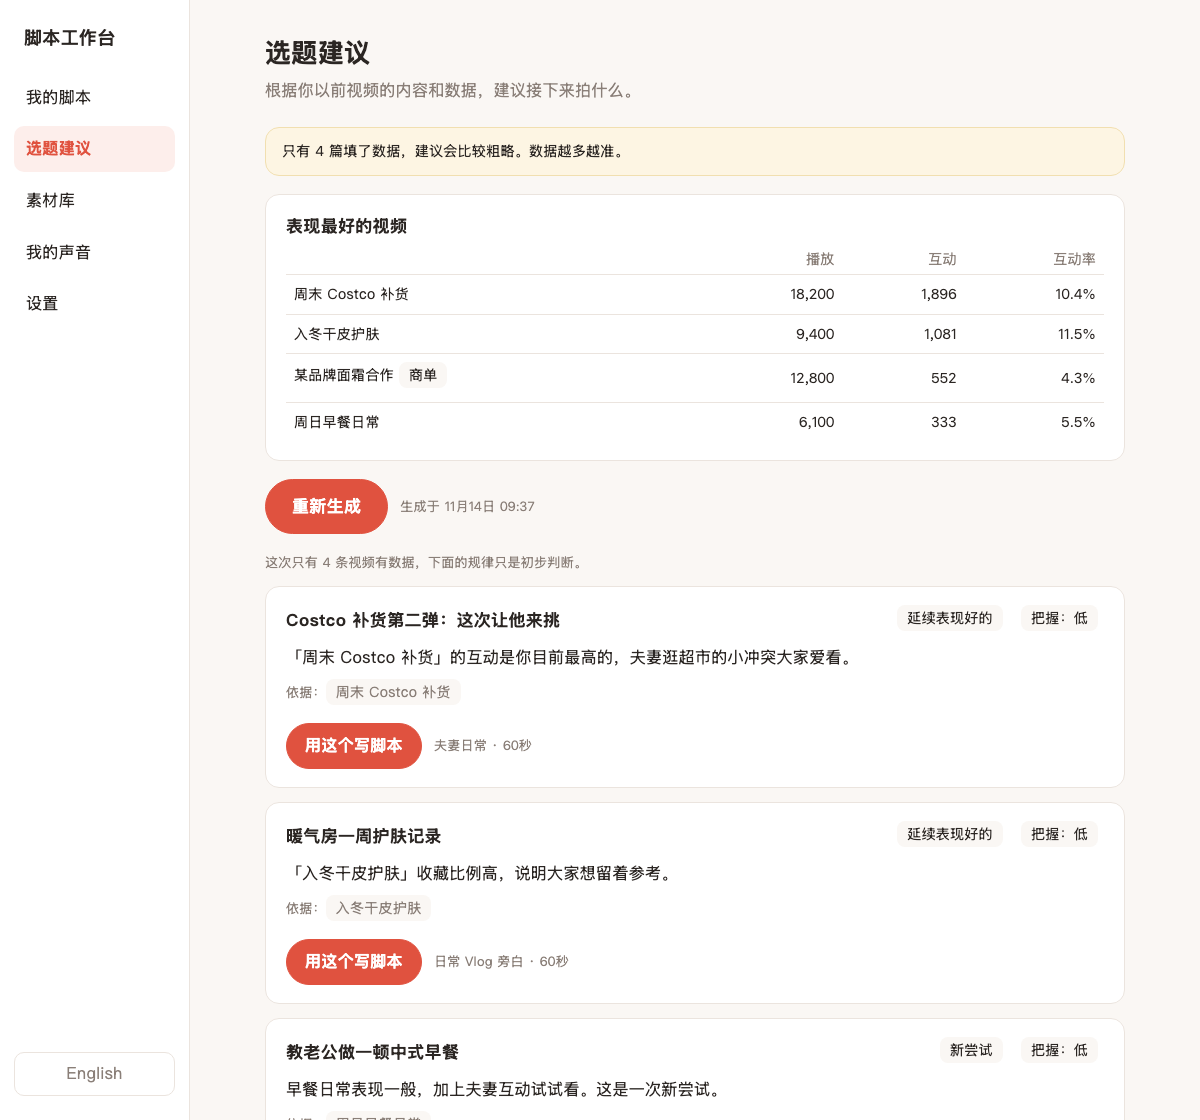
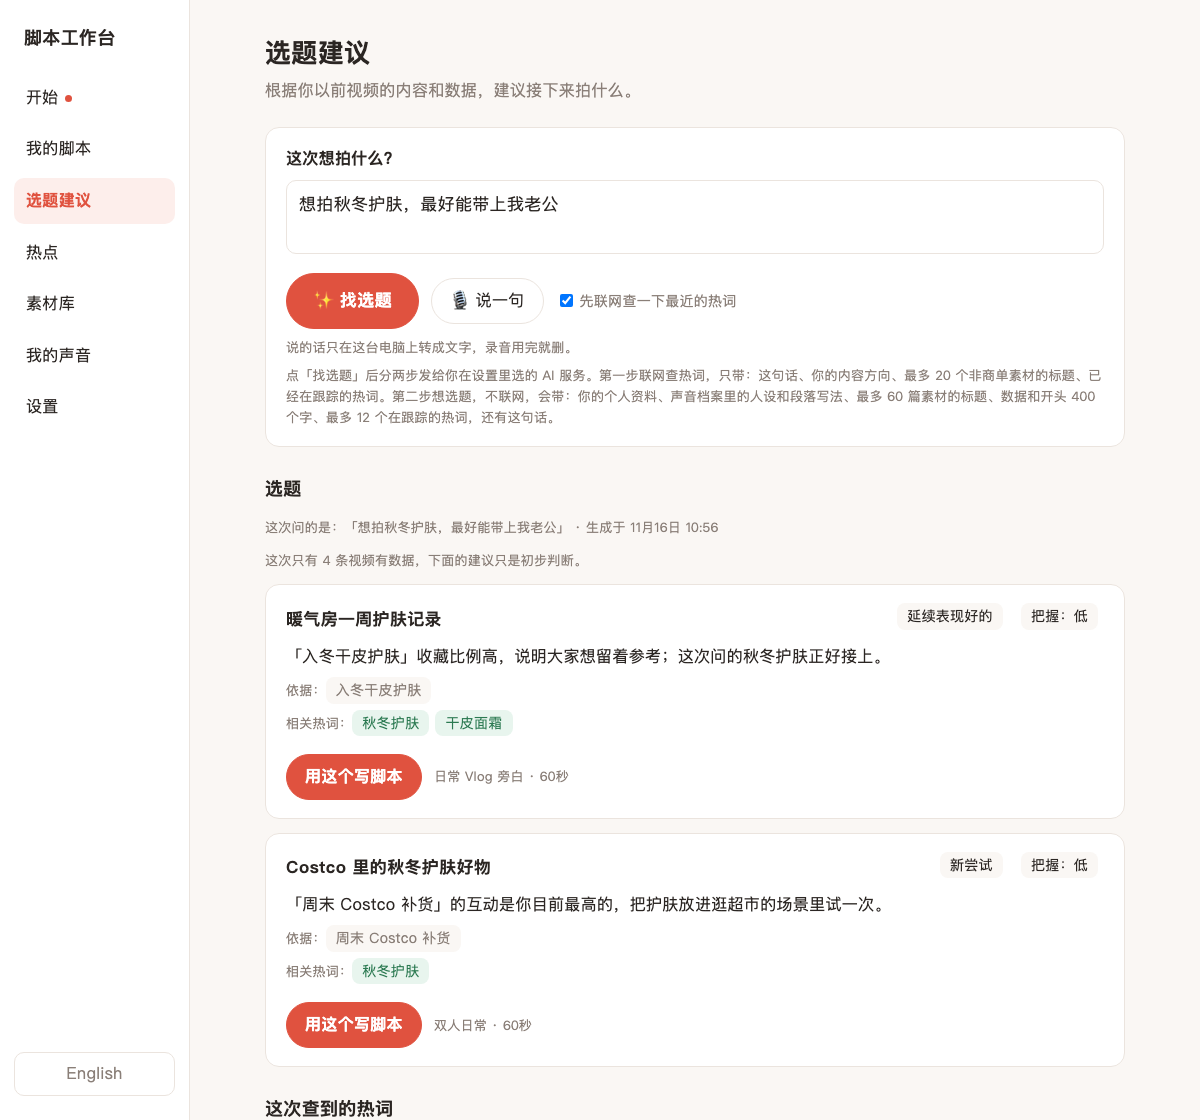
Describe one line to ideas in both READMEs and the changelog draft
Status tables, first-ten-minutes steps, features, privacy and known limits, in
both languages. The privacy section no longer says the studio makes no web
request for trend keywords: with a Gemini or OpenAI key it now asks that
service to search. The v0.2.0-beta changelog draft gains the feature, the
change in behaviour, the fix, and what was and was not verified. The 选题建议
screenshot is retaken with stand-in data, because the page looks different
now.

diff --git a/README.md b/README.md
@@ -23,6 +23,7 @@ This is an early version. Read this before relying on it.
 | Guided setup, voice review, lessons from edits | Covered by automated tests. Their AI parts were tested against stand-in replies, like the row above. |
 | On-device transcription | A Mac with an Apple chip and macOS 14 or newer only. Set up and used on one Mac so far. Transcripts contain mistakes, especially in sentence-final particles, and wait for the creator's confirmation before their wording is learned from. |
 | Trend keywords | Pasting, ranking and keyword checks work, are covered by automated tests and were exercised in headless Chrome. The ranking weights are judgement calls that have **not** been tuned against real results. Lookups by a web-searching AI have only been tested with stand-in replies. |
+| One line to ideas | New. Typing or saying one line on 选题建议 looks current keywords up and then suggests ideas. Covered by automated tests, and the pages were run with the server in headless Chrome against stand-in AI replies. The web lookup through a Gemini or OpenAI key is written from those services' documentation and has **not** been run against either. Speaking was tested with the Whisper on one Mac and a sound stream in place of the microphone; a real microphone has **not** been tried. |
 | 剪映 / CapCut | Exports standard files to import. Importing them has **not** been verified inside 剪映 or CapCut by the maintainers. It does not write 剪映 project drafts. |
 | MCP server | Tested at protocol level (JSON-RPC over stdio). **Not** yet verified with ChatGPT, Codex or Claude Desktop. |
 | Platforms | Developed on macOS with Python 3.9. Nobody has used it on Windows or Linux yet. The automated tests run on all three systems on every push; the repository's Actions page shows whether they pass there. |
@@ -52,7 +53,7 @@ The interface starts in Chinese. Use the **English** button at the bottom of the
 4. Step 4: draft a first script. Under it the app lists which material the draft was based on.
 5. **素材库 / Library**: add views, likes, collects and comments where you have them, and tick 商单 for sponsored items.
 6. **热点 / Trends** (optional): paste keywords you see trending on Xiaohongshu to have them ranked against her own results.
-7. **选题建议 / Ideas**: ask for topic suggestions, pick one, and draft it.
+7. **选题建议 / Ideas**: type one line about what you want to film, or say it, or leave the box empty, and click 找选题. With a Gemini or OpenAI key the app first looks up current keywords on the web and then suggests ideas. Pick an idea or a keyword and draft it.
 8. **我的脚本 / Scripts**: edit the draft, read it with the teleprompter, and export the 剪映 kit.
 
 Until a voice profile has been accepted the app uses a bundled *example* voice profile for a fictional creator, and says so on screen.
@@ -137,6 +138,7 @@ Then ask in chat, for example: *"Use Learn My Voice to write a 60-second script 
 - **Drafting**: every draft is anchored on her own best-performing scripts as examples. A script can have up to 8 target keywords; her past scripts on those topics are then used as the examples first, and the editor shows whether each keyword ended up in the spoken lines or in the drafted title options, caption or hashtags. The title options, cover text, caption and hashtags that the AI drafts with a script are shown under it, to read and copy.
 - **Lessons from edits**: each AI draft lists which of the creator's scripts its prompt contained. The app shows what the creator then changed in the draft, counting wording only, and a change can be remembered. Remembered changes go into later draft prompts, and a phrase removed in more than one script is offered for the never-say list.
 - **Topic ideas**: ranks her past videos by interactions and suggests what to film next. Each idea must cite her own videos; citations that do not match a real title are removed. Tracked trend keywords are passed in as a second signal, and an idea can only name keywords that are actually tracked.
+- **One line to ideas**: on 选题建议, and on the home page once an AI is connected, type one line about what you want to film, or say it on a Mac that has the on-device transcriber. With a Gemini or OpenAI key the app first asks that service to search the web for current keywords in the creator's niches, keeps the ones that come with a source link, marked as unverified, and then asks for ideas that answer the line. With a local model or in copy & paste mode the same two steps are offered by hand. The page shows the ideas, the keywords found with their sources, and the pages the lookup cited. When one step fails the other's result is still shown, and ideas saved earlier stay.
 - **Trend keywords** (热点): paste keywords you see trending, with an optional heat number, and the studio ranks them by how hot and recent they are and by how her own videos on that topic performed. You choose how much each side counts. The ranking is arithmetic, not AI. Keywords that clash with her voice profile are marked and left out of suggestions. A web-searching chat AI can also look keywords up through the copy & paste dialog or MCP; those need a source link and are labelled as unverified.
 - **Teleprompter**: full screen, adjustable speed and size.
 - **Exports**: 剪映 / CapCut kit, subtitle `.srt`, voiceover text, shot list, on-screen text list.
@@ -172,7 +174,8 @@ generator reports limits for drafts produced on macOS, so this needs testing aga
 - A video added for transcription is copied into `data/uploads/` and transcribed on this Mac. The copy is deleted when the transcription ends, whatever the outcome; only the text and timing are kept. The programs that transcribe are started under macOS rules that deny them the network, and where those rules cannot be set up nothing is transcribed.
 - Setting up transcription downloads software from pypi.org and one speech model from huggingface.co, about 2 GB in all, into `local_tools/whisper/` inside the project folder. Nothing about the creator is sent.
 - Views, likes, collects and comments are typed in by hand. Nothing is fetched from any platform.
-- Trend keywords are pasted in by hand, or returned by a web-searching AI that you ask yourself. The studio makes no web requests for them. A trend lookup prompt contains the niches from the creator profile, the titles of up to 20 non-sponsored videos, the area you typed and the keywords already tracked. It does not contain script text, the creator's name or anything from the voice profile.
+- Trend keywords are pasted in by hand, or looked up by a web-searching AI. That is either one you ask yourself by copy and paste, or, when 选题建议 is used with a Gemini or OpenAI key and the lookup is ticked, that service's own web search. The studio itself opens no web page and fetches nothing from any platform. A trend lookup prompt contains the niches from the creator profile, the titles of up to 20 non-sponsored videos, the line you typed or said and the keywords already tracked. It does not contain script text, the creator's name or anything from the voice profile. The ideas prompt that follows is a separate request, sent without web search.
+- A spoken line is recorded in the browser, sent to this app on `127.0.0.1`, turned into text by the on-device transcriber and deleted. The browser's own speech recognition is not used. The text appears in the box first; nothing goes to an AI until 找选题 is clicked.
 
 ## Project layout
 
@@ -212,6 +215,8 @@ python3 -m studio.guardrails tests/fixtures/worked_example_script.json --dna sch
 - With only a few videos that have numbers, topic suggestions are weak. The app says so.
 - Trend scores are a guide, not a measurement. The weights and the 14-day half-life are judgement calls that have not been tuned against real outcomes, and heat numbers are whatever was typed in. Matching a keyword to her past videos is by shared characters and words, so it can miss a video that covers the topic in other words.
 - Keywords found by an AI are only as good as the page it cites. The studio requires a web link and drops entries whose stated source date is more than 30 days old, but it never opens the page, so it cannot confirm the page says what the AI claims. They stay marked as unverified unless you paste the same keyword in yourself.
+- The web lookup built into 选题建议 is written from Google's and OpenAI's documentation as it read on 16 November 2026 and has not been run against either service. For Gemini it uses the Interactions API, which is not the API the rest of the app calls. OpenAI asks that pages a web search cites are shown as clickable links, which the page does. Google sends an HTML snippet of search suggestions that is meant to be shown, with requirements in its terms of service; the app does not show it, and those terms have not been read.
+- Speaking a line needs the on-device transcriber, so it works only where video transcription does. Whisper mishears: in a test with a synthetic Chinese voice it wrote 秋冬 as 邱中. The text is shown in the box to be corrected before anything is sent.
 - Sponsored-brief handling and a second-pass critic are designed in `prompts/` and `SYSTEM_DESIGN.md` but not built.
 
 ## License

diff --git a/README.zh-CN.md b/README.zh-CN.md
@@ -22,6 +22,7 @@
 | 引导设置、声音档案确认、从改稿中学习 | 有自动化测试。其中用到 AI 的部分和上一行一样，只用模拟回复测试过。 |
 | 本机视频转写 | 只支持 Apple 芯片的 Mac，macOS 14 或更新。目前只在一台 Mac 上安装并用过。机器转写会有错字，尤其是句尾语气词，所以转写的文字要你确认以后，才会用来学说话习惯。 |
 | 热点关键词 | 粘贴、排序和关键词检查可以用，有自动化测试，也在无界面 Chrome 里跑过。排序的权重是凭经验定的，**还没有**用真实结果校准过。让能联网的 AI 查热词这一步，只用模拟回复测试过。 |
+| 一句话找选题 | 新功能。在「选题建议」里写一句或说一句，先查最近的热词，再给选题。有自动化测试，页面和服务也一起在无界面 Chrome 里跑过，用的是模拟的 AI 回复。用 Gemini 或 OpenAI 密钥联网查热词这一步，是照着这两家的文档写的，**还没有**真的连过任何一家。说话输入是用一台 Mac 上的 Whisper 测的，用一段声音代替了麦克风；真实的麦克风**还没有**试过。 |
 | 剪映 / CapCut | 导出的是可以导入的标准文件。维护者**还没有**在剪映或 CapCut 里实际验证过导入。目前不会直接生成剪映草稿。 |
 | MCP 服务 | 在协议层面测试过（标准输入输出上的 JSON-RPC）。**还没有**和 ChatGPT、Codex 或 Claude Desktop 实际连通验证。 |
 | 系统 | 在 macOS、Python 3.9 上开发。还没有人在 Windows 或 Linux 上实际用过。每次推送都会在三个系统上跑自动化测试，在那两个系统上能不能通过，见仓库的 Actions 页面。 |
@@ -51,7 +52,7 @@ python3 -m studio.server
 4. 第四步：写第一篇脚本。脚本下面会列出这篇初稿参照了你的哪些素材。
 5. **素材库**：有数据的话填上播放、点赞、收藏、评论；商单请勾选「商单」。
 6. **热点**（可选）：把你在小红书看到的热词贴进来，让它结合你自己的数据排个先后。
-7. **选题建议**：让它帮你想选题，挑一个，直接写初稿。
+7. **选题建议**：写一句这次想拍什么，或者直接说一句，也可以什么都不填，然后点「找选题」。用的是 Gemini 或 OpenAI 密钥的话，工作台会先联网查最近的热词，再给选题。挑一个选题或热词，直接写初稿。
 8. **我的脚本**：修改初稿，用提词器念，再导出剪映素材包。
 
 在采用你自己的声音档案之前，工作台用的是自带的*示例*声音档案（一个虚构的博主），页面上会有提示。
@@ -133,6 +134,7 @@ tunnel-client run --profile learn-my-voice
 - **写初稿**：每次都会把你自己表现最好的脚本当作范例一起给 AI。每篇脚本可以设最多 8 个目标关键词：设了以后，会优先拿你讲过相关话题的脚本当范例，编辑页也会显示每个关键词有没有出现在口播里，或者 AI 写的备选标题、正文、话题里。AI 写初稿时一起写的备选标题、封面文字、正文和话题会显示在脚本下面，可以看、可以复制。
 - **从改稿中学习**：每篇 AI 初稿下面都会列出它的提示词里放了你的哪几篇素材。你改过以后，工作台会列出你改了哪些字（只算真正改了字的地方），你可以让它记住某个改法。记住的改法会放进以后每次写稿的提示词里；在不止一篇脚本里删掉过的说法，会问你要不要加入「坚决不说的话」。
 - **选题建议**：按互动量给以前的视频排名，建议接下来拍什么。每条建议必须引用你自己的视频；引用的标题如果对不上，会被去掉。正在跟踪的热词会作为第二个参考一起给 AI，建议里只能提到确实在跟踪的热词。
+- **一句话找选题**：在「选题建议」页（连接 AI 以后，首页也有），写一句这次想拍什么；装了本机转写的 Mac 上也可以直接说。用的是 Gemini 或 OpenAI 密钥的话，工作台会先让这个服务联网查你内容方向里最近的热词，只留下带来源链接的，标成「未核实」，再让它按你这句话给选题。用本地模型或复制粘贴模式时，同样的两步可以手动做。页面上会列出选题、查到的热词和来源，以及查的时候引用的网页。其中一步失败了，另一步的结果照样显示，以前保存的选题也还在。
 - **热点关键词**：把你看到的热词贴进来（后面可以带热度数字），工作台按「有多热、多新」和「你自己拍相关内容的表现」给它们排序，两边各占多少由你选。排序是算出来的，不是 AI。和你的声音档案冲突的词会标出来，不会出现在推荐里。也可以让能联网的聊天 AI 帮你查（通过复制粘贴对话框或 MCP）：查到的词必须带来源链接，并且会标明「未核实」。
 - **提词器**：全屏，可调速度和字号。
 - **导出**：剪映素材包、字幕 `.srt`、口播文稿、拍摄清单、花字清单。
@@ -168,7 +170,8 @@ tunnel-client run --profile learn-my-voice
 - 放进来转写的视频会先复制到 `data/uploads/`，在这台 Mac 上转写。转写一结束，不管成功还是失败，这份副本都会删除，只留下文字和时间。负责转写的程序是在 macOS 的规则下启动的，这些规则不让它们联网；规则没法生效的时候，就不会转写。
 - 安装本机转写时，会从 pypi.org 下载组件、从 huggingface.co 下载一个语音模型，一共约 2 GB，装在项目文件夹的 `local_tools/whisper/` 里。这个过程不会发送任何关于你的内容。
 - 播放、点赞、收藏、评论都是手动填写的，不会从任何平台抓取数据。
-- 热词要么是你自己贴进来的，要么是你自己去问的、能联网的 AI 查到的；工作台不会为了热词去访问任何网站。查热词的提示词里有你在「开始」里填的内容方向、最多 20 条非商单视频的标题、你这次填的方向和已经在跟踪的热词；不包含脚本正文、你的称呼，也不包含声音档案里的任何内容。
+- 热词要么是你自己贴进来的，要么是能联网的 AI 查到的：可以是你自己用复制粘贴去问的那个 AI；也可以是在「选题建议」里用 Gemini 或 OpenAI 密钥、并且勾了联网查热词时，那个服务自带的联网搜索。工作台自己不打开任何网页，也不从任何平台抓数据。查热词的提示词里有你在「开始」里填的内容方向、最多 20 条非商单视频的标题、你这次写的或说的那句话和已经在跟踪的热词；不包含脚本正文、你的名字，也不包含声音档案里的任何内容。之后想选题的提示词是另一次请求，发送时不联网。
+- 说的那句话在浏览器里录下来，发给这台电脑上的工作台（`127.0.0.1`），由本机转写变成文字，录音随后删除。不使用浏览器自带的语音识别。文字先出现在输入框里；点「找选题」之前，不会发给任何 AI。
 
 ## 项目结构
 
@@ -207,6 +210,8 @@ python3 -m studio.guardrails tests/fixtures/worked_example_script.json --dna sch
 - 有数据的视频太少时，选题建议不太可靠，页面上会有提示。
 - 热词的分数只是参考，不是测量结果。权重和「每 14 天减半」都是凭经验定的，还没有用真实结果校准过；热度数字填的是什么就是什么。判断一条视频和热词相不相关，靠的是有没有相同的字词，所以换了说法讲同一个话题的视频可能对不上。
 - AI 查到的热词可不可靠，取决于它引用的那个网页。工作台只要求有网页链接，并且会去掉来源日期超过 30 天的词；它不会打开网页，所以没法确认网页上是不是真的那么写。这些词会标着「未核实」，除非你自己把同一个词贴进来。
+- 「选题建议」里自带的联网查热词，是照着 Google 和 OpenAI 在 2026 年 11 月 16 日的文档写的，还没有真的连过任何一家。对 Gemini 用的是 Interactions API，和工作台其他地方调用的不是同一个接口。OpenAI 要求把联网搜索引用的网页显示成可以点的链接，页面上是这样做的。Google 会返回一段用来显示「搜索建议」的 HTML，并在服务条款里写了使用要求；工作台没有显示这一段，那些条款也还没有读过。
+- 说话输入要用本机转写，所以只有能转写视频的电脑上才能用。Whisper 会听错：用合成的中文语音测试时，它把「秋冬」写成了「邱中」。文字会先显示在输入框里，发出去之前可以改。
 - 商单 Brief 处理和二次审稿在 `prompts/` 和 `SYSTEM_DESIGN.md` 里有设计，但还没有实现。
 
 ## 许可

diff --git a/CHANGELOG.md b/CHANGELOG.md
@@ -24,12 +24,26 @@ when the tag is made, and "State of this release" has to be read again then.
   and then goes into later draft prompts.
 - **What a draft was based on.** Each AI draft lists which of the creator's scripts its prompt contained.
 - **Phrases never to be used.** Typed in during setup and enforced by rule in every check.
+- **One line to ideas.** On 选题建议, and on the home page once an AI is connected, the creator types one line
+  about what they want to film, or leaves it empty, and clicks 找选题. With a Gemini or OpenAI key the app first
+  asks that service to search the web for current keywords in the creator's niches, keeps those that come with
+  a source link (marked as unverified), and then asks for ideas that answer the line. The page shows the ideas,
+  the keywords found with their sources, and the pages the lookup cited. With a local model or in copy & paste
+  mode the same two steps are offered by hand. When one step fails the other's result is still shown, and ideas
+  saved earlier stay.
+- **Saying the line.** On a Mac with the on-device transcriber the line can be spoken. The recording goes to
+  the app on this computer, is turned into text there and deleted; the browser's own speech recognition is not
+  used. The text lands in the box and can be corrected before anything is sent.
 
 **Changed**
 
 - Through MCP, `save_voice_profile` stores a proposal only, and `update_script` only revises an AI draft the
   creator has not edited.
 - A save based on an older version of a script is refused instead of replacing the newer one.
+- With a Gemini or OpenAI key, 找选题 now sends a web lookup to that service unless the tick for it is removed.
+  Before, the app never started a web lookup itself. The lookup prompt is the one already used by copy and
+  paste: niches, up to 20 titles, tracked keywords and the line typed, and nothing else about the creator.
+- Through MCP, `get_topic_ideas_brief` and `save_topic_ideas` take an optional `focus`.
 
 **Fixed**
 
@@ -38,6 +52,8 @@ when the tag is made, and "State of this release" has to be read again then.
 - On Windows the pages' scripts could be sent as plain text, which leaves the page empty. Also found by
   reading the code.
 - A `.docx` of 437 bytes held the server for 10 seconds, and one pasted trend line of 32,000 spaces for 7.5.
+- A pasted trend lookup in which one source link had a stray bracket (`http://[...`) failed with "internal
+  error". Such a keyword now counts as one without a source.
 - Answers and stored files never contain `NaN` or `Infinity`, which used to make a page show nothing.
 - Files are written whole and flushed to disk before they replace the old one. On macOS and Linux the data
   folder is closed to the other accounts on the computer.
@@ -47,8 +63,15 @@ when the tag is made, and "State of this release" has to be read again then.
 
 **State of this release**
 
-- 429 automated tests pass on macOS with Python 3.9.6. One of them transcribes real audio and only runs where
+- 460 automated tests pass on macOS with Python 3.9.6. One of them transcribes real audio and only runs where
   the transcriber is installed.
+- One line to ideas: the pages were run together with the server in headless Chrome, against stand-in AI
+  replies. The web lookup through a Gemini or OpenAI key is written from those services' documentation as it
+  read on 16 November 2026 and has not been run against either. Google's terms for showing search-grounded
+  results have not been read.
+- Saying the line: tested with the Whisper on one Mac and a sound stream in place of the microphone. It wrote
+  an English sentence correctly and got one word of a Chinese sentence wrong (秋冬 as 邱中, synthetic voice). A
+  real microphone has not been tried.
 - On-device transcription has been set up and used on one Mac. Whisper gets some sentence-final particles
   wrong.
 - A workflow runs the tests on macOS, Windows and Linux on every push. At the time of writing it has not run.
